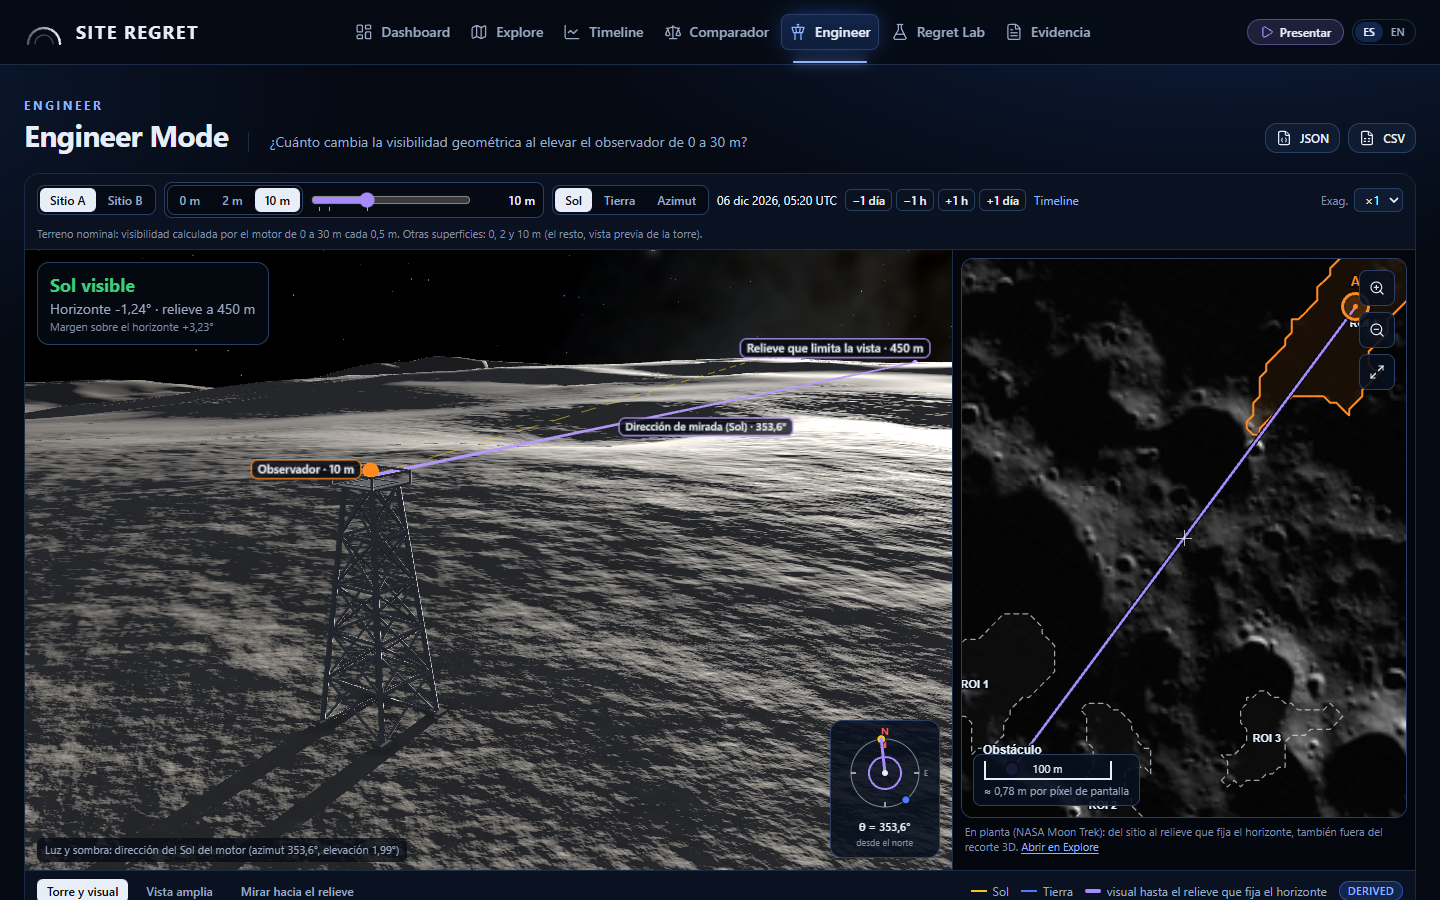
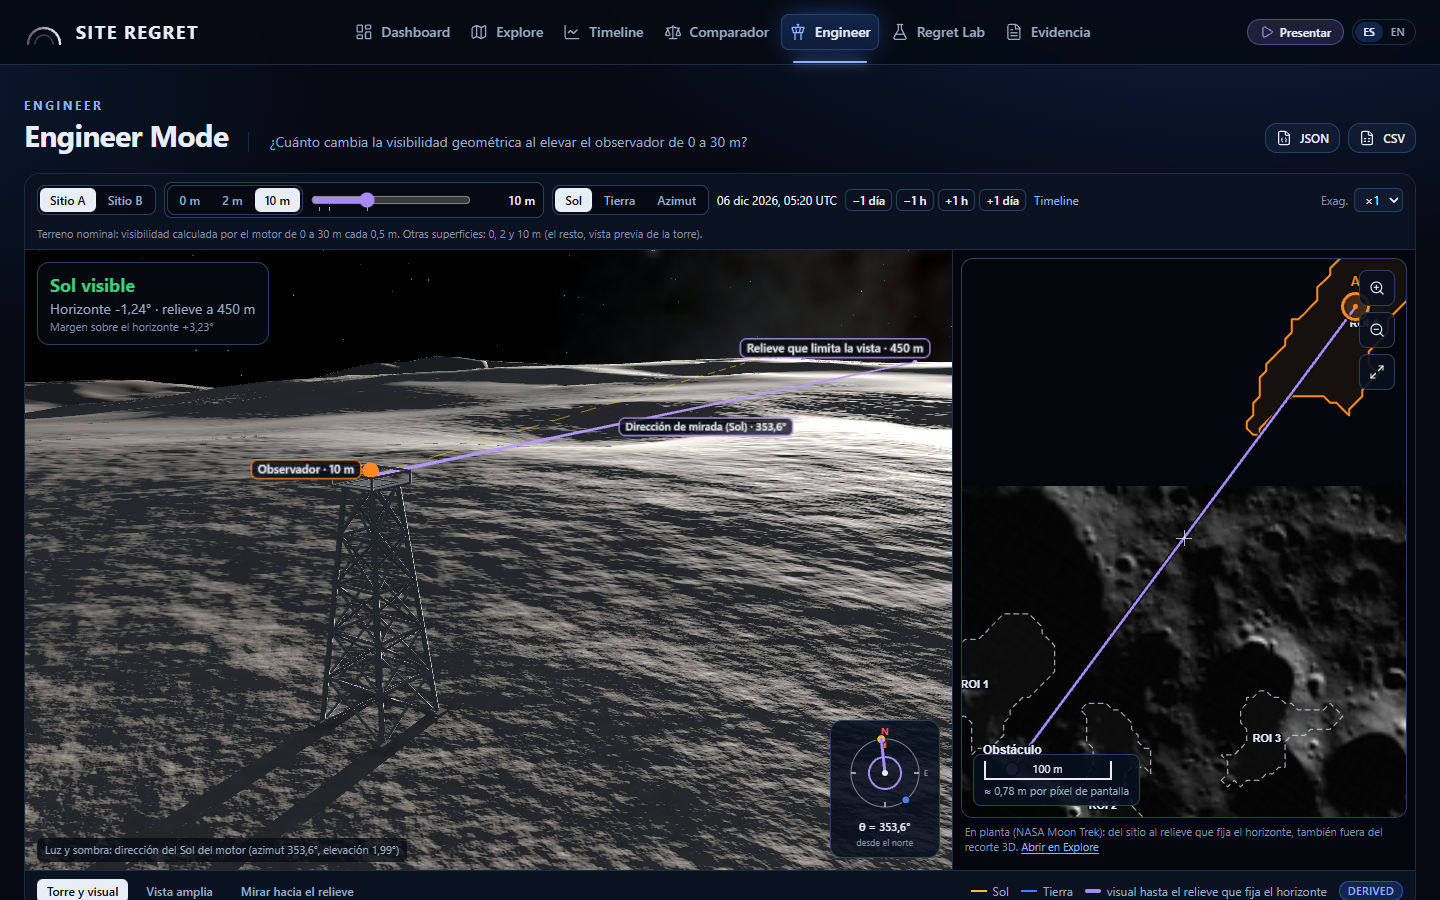
perf(engineer): keep the shadow light constant so the height slider stays fast
Dropping castShadow for the neutral-light state changed the number of
shadow-casting lights, which makes three.js recompile every material
(~0.9 s on first use). The Sun light now keeps castShadow and goes to zero
intensity when the engine reports the Sun hidden or data is loading.
Sightline tiles are requested after a 450 ms pause. Slider to 30 m with data:
1041 ms -> 318 ms (263 ms before the redesign).

diff --git a/web/src/components/terrain/useRegionalTerrain.ts b/web/src/components/terrain/useRegionalTerrain.ts
@@ -20,6 +20,8 @@ import { TERRAIN_BOUNDS } from "@/lib/geospatial/terrain";
 /** Radio (m) alrededor del sitio que se dibuja siempre con cada nivel. */
 const NEAR_L0_M = 12_000;
 const NEAR_L1_M = 50_000;
+/** Pausa (ms) antes de pedir los bloques de una visual nueva. */
+const RAY_SETTLE_MS = 450;
 /** De más fino a más grueso. */
 const FINENESS: RegionalLevelId[] = ["L0", "L1", "L2", "F"];
 const SKIRT_M: Record<string, number> = { L0: 60, L1: 220, L2: 700, F: 1500 };
@@ -45,12 +47,22 @@ const intersects = (a: Bounds, b: Bounds) => a[0] < b[2] && a[2] > b[0] && a[1] 
 export function useRegionalTerrain(
   frame: LocalFrame,
   site: { x: number; y: number; lonEastDeg: number; latDeg: number },
-  ray: { azimuthDeg: number; distanceM: number } | null,
+  liveRay: { azimuthDeg: number; distanceM: number } | null,
 ): { pieces: RegionalPiece[]; grids: RegionalGrid[]; pending: number; failed: number } {
   const [grids, setGrids] = useState<Map<string, RegionalGrid>>(() => new Map());
   const [pending, setPending] = useState(0);
   const [failed, setFailed] = useState(0);
   const requested = useRef(new Set<string>());
+
+  // La visual solo pide bloques cuando lleva un momento quieta: mientras se arrastra la altura o el
+  // azimut cambia a cada paso, y pedir y mallar bloques en cada uno retrasaba el dato de la altura final.
+  const rayAz = liveRay?.azimuthDeg ?? null;
+  const rayDist = liveRay?.distanceM ?? null;
+  const [ray, setRay] = useState<{ azimuthDeg: number; distanceM: number } | null>(null);
+  useEffect(() => {
+    const t = setTimeout(() => setRay(rayAz === null || rayDist === null ? null : { azimuthDeg: rayAz, distanceM: rayDist }), RAY_SETTLE_MS);
+    return () => clearTimeout(t);
+  }, [rayAz, rayDist]);
 
   const wanted = useMemo(() => {
     const list: RegionalBlockEntry[] = [

diff --git a/web/src/components/terrain/TerrainScene.tsx b/web/src/components/terrain/TerrainScene.tsx
@@ -449,8 +449,9 @@ export function TerrainScene({
     if (!r || !host) return;
     if (!lightEnu) {
       // Sol oculto, desconocido o sin datos: sin luz directa ni sombra solar; luz neutra para leer la escena.
+      // Intensidad 0 en lugar de quitar `castShadow`: cambiar el número de luces con sombra obliga a
+      // three.js a recompilar todos los materiales (≈ 1 s la primera vez). Una luz a 0 no ilumina ni sombrea.
       r.light.intensity = 0;
-      r.light.castShadow = false;
       r.neutral.hemi.intensity = 1.25;
       r.neutral.ambient.intensity = 0.28;
       r.neutral.top.intensity = 0.55;
@@ -464,7 +465,6 @@ export function TerrainScene({
       const elev = Math.asin(Math.max(-1, Math.min(1, l.y)));
       // La elevación es la real (rasante en el polo). Solo la intensidad compensa que el suelo reciba ∝ sin(elevación).
       r.light.intensity = 3.3 * Math.min(5, Math.max(1, 0.3 / Math.max(0.01, Math.sin(elev))));
-      r.light.castShadow = true;
       r.neutral.hemi.intensity = 0.42;
       r.neutral.ambient.intensity = 0.08;
       r.neutral.top.intensity = 0;

diff --git a/docs/continuidad/HANDOFF.md b/docs/continuidad/HANDOFF.md
@@ -10,7 +10,7 @@ Documento principal del relevo. Si contradice al código o a `git status`, manda
 | | |
 |---|---|
 | Rama | `feat/rediseno-experiencia-lunar` (local, **sin subir, sin PR, sin fusionar**), desde `be84975` = punta de `feat/operacion-final-integracion` (PR #20). Fusionar y publicar lo decide el equipo: `main` despliega en producción |
-| Commits | `6491f1e` Dashboard (globo) · `3fab07e` Engineer (sombra solar + relieve regional) · `1d627d7` Timeline · encima, el commit de capturas y documentos de este punto de control |
+| Commits | `6491f1e` Dashboard (globo) · `3fab07e` Engineer (sombra solar + relieve regional) · `1d627d7` Timeline · `28ab76d` capturas y documentos · encima, `perf(engineer)` (deslizador) con las medidas y capturas de Engineer rehechas |
 | Compilación servida | `web/out`, compilada por `npm run verify` sobre el código de esos commits. Servidor: `node scripts/serve-static.ts out 4190` (PID 30428, arrancado por Hugo a las 19:05; lee `out/` del disco en cada petición, así que sirve la compilación final). URL: http://127.0.0.1:4190/ · http://127.0.0.1:4190/timeline/?s=A&w=W2&h=0&v=nominal&t=3200 · http://127.0.0.1:4190/engineer/?s=A&w=W1&h=10&v=nominal&t=629. Si no responde: `cd web && npm run build && node scripts/serve-static.ts out 4190` |
 | Referencia «antes» | `web/docs/capturas/pc24/antes/` (de Hugo, sobre el código de `0871dcf`), reutilizada sin repetir. «Después»: `web/docs/capturas/pc24/despues/` (mismo equipo, mismo Edge, mismo script) |
 
@@ -61,13 +61,13 @@ Capturas: `web/docs/capturas/pc24/despues/engineer-obstaculo-{fuera,sol-oculto,c
 
 | Vista | Antes | Después | Nota |
 |---|---|---|---|
-| Dashboard · contenido útil (botón de misión) | 387 ms | 417 ms | |
+| Dashboard · contenido útil (botón de misión) | 387 ms | 417–485 ms (dos pasadas) | |
 | Dashboard · transferido / peticiones | 4 902 KB / 81 | 6 180 KB / 88 | + three.js, textura 2k y cielo; la capa `elevation.f32` (2,5 MB) ya se cargaba |
 | Dashboard · arrastre del globo | sin globo | mediana 6,1 ms, p95 6,2 ms | |
 | Timeline · útil / transferido | 111 ms / 6 303 KB | 135 ms / 6 374 KB | |
 | Engineer · útil / transferido / peticiones | 116 ms / 8 561 KB / 100 | 148 ms / 9 776 KB / 131 | + bloques regionales (≈ 1,2 MB) |
 | Engineer · órbita | mediana 6,1 ms, p95 6,2 ms | mediana 6,1 ms, p95 6,2 ms | |
-| Engineer · deslizador hasta 30 m con dato | 263 ms | **1 041 ms** | Más lento: al cambiar la altura cambia el punto del horizonte y se piden y mallan bloques regionales nuevos |
+| Engineer · deslizador hasta 30 m con dato | 263 ms | **318 ms** (316–334 en 4 medidas) | La primera versión de PC-24 daba 1 041 ms. Causa aislada midiendo con y sin relieve regional: al pasar a luz neutra durante la carga se quitaba `castShadow`, y three.js recompila todos los materiales cuando cambia el número de luces con sombra (≈ 0,9 s la primera vez). Ahora la luz solar conserva `castShadow` y en modo neutro va a intensidad 0. Además, los bloques de la visual se piden tras 450 ms de pausa |
 
 Cómo mide el script y qué NO es comparable: `usefulMs` y `settledMs` son relojes de Node alrededor de Playwright (incluyen su latencia; `settledMs` lleva 1,8 s fijos de espera). El intervalo entre fotogramas es `requestAnimationFrame` de la página: **6,1 ms es el tope de la pantalla (~165 Hz)**, así que solo demuestra que no se pierden fotogramas, no cuánto margen queda. `transferKB` es contra un servidor local sin compresión. «Arrastre del globo» no tiene valor «antes».
 
@@ -75,7 +75,7 @@ Cómo mide el script y qué NO es comparable: `usefulMs` y `settledMs` son reloj
 
 - **Revisión humana** de las tres vistas (proyector incluido) antes de cualquier fusión. No se ha subido la rama.
 - Relieve regional: fuera de los bloques L0 (puntos de horizonte del motor + 25 km) solo hay L1/L2/F; ahí las crestas entre vértices no están y la visual termina en «Límite del visor 3D» con el punto real en el mapa. No existe en el paquete un caso de **Sol oculto por cresta regional** a 2 ni a 10 m (no comprobado a 0 m ni en alturas intermedias). Entre el recorte de 4 km y el borde de la tesela Site01 (16 km) el motor usó PGDA78 de 5 m, que la web no publica: ahí el 80 m es contexto, con un escalón de hasta ~6 m (RMS 0,7 m) en la junta. Ampliar: `node scripts/geospatial/build-regional.ts --ring-km=40 --sector=A:120-140:150` y `publish-regional.ts`.
-- El deslizador de altura tarda más en mostrar el dato (ver tabla). Mejora posible: construir las mallas regionales fuera del hilo principal o no pedir bloques de la visual durante el arrastre.
+- Tras el ajuste del deslizador (commit posterior a `28ab76d`) se recompiló y se repasaron sobre la compilación final `engineer-pc24`, `engineer-heights`, `timeline-engineer-visual`, `geo`, `jurado-pc21` y `a11y` (2 procesos): 43 PASS, 1 FAIL, 1 omitida. El fallo, `engineer-heights.spec.ts` «volver a 10 m…», fue de tiempo de carga (la altura 19,5 m no llegó en 20 s); esa spec en serie ×2: 12/12 PASS. **El `npm run verify` completo no se ha repetido después de este ajuste.**
 - Con el Sol a 1–2° la torre iluminada queda muy clara y el suelo oscuro (es la geometría real); la luz neutra del caso «Sol oculto» es plana a propósito.
 - Globo: la textura global es de 2k (≈ 5 km/px); el detalle fino solo existe en el casquete sur. La rotación es de tipo «trackball» (puede acumular giro); «Volver al globo» lo restablece.
 - Sin comprobar: lector de pantalla real, zoom al 200 %, Safari/Firefox, móvil físico, inglés de forma visual en las vistas nuevas.

diff --git a/docs/continuidad/HISTORIAL.md b/docs/continuidad/HISTORIAL.md
@@ -28,3 +28,4 @@
 | PC-23 | 2026-11-14 18:10 | Hugo · Claude Code (operación final de integración) | Reconciliación Git/GitHub/Vercel (producción = `main` = `aae19b2`; despliegue automático desde `main`, sin protección ni CI). Auditoría independiente del paquete de alturas: sin fallos (162/162 comparaciones exactas con el contrato). `npm run verify` sobre `aae19b2`: 1 E2E fallaba de verdad (prueba del lienzo 3D, no la escena). Candidato: demo guiada en 3 pasos con regret, portada de 10 segundos con A/B, ficha de Evidencia del paquete de alturas, textos de Engineer, +2 Vitest, +1 E2E. `npm run verify` sobre el commit candidato `0871dcf`: Vitest 126/126, Playwright 93 PASS, 0 FAIL, 1 omitida (opcional en vivo). Documentos anticuados corregidos; tabla de propietarios. NO-GO de entrega: faltan demo pública, ficha en inglés, verificación de la pestaña Resources y declaración de IA del resto del equipo | rama `feat/operacion-final-integracion` (sin fusionar ni publicar) |
 | PC-24 (inicio) | 2026-11-14 19:15 | Asier · Claude Code (relevo de Hugo) | Rama `feat/rediseno-experiencia-lunar` desde `be84975`. Capturas y medidas de partida de Hugo (`web/docs/capturas/pc24/antes/`, `web/scripts/qa/capture.mjs`) comprobadas y reutilizadas. Empieza el globo lunar del Dashboard; después sombra solar y terreno regional de Engineer y Timeline compacto | HANDOFF §0-bis |
 | PC-24 | 2026-11-14 ~20:15 | Asier · Claude Code (relevo de Hugo) | Rediseño de la experiencia lunar en `feat/rediseno-experiencia-lunar` (local, sin subir): Dashboard con globo lunar 360° (LROC SVS 4720, A · B en el polo, detalle polar LOLA, caída sin WebGL); Engineer con luz y sombra del Sol del motor (neutra si está oculto) y relieve regional PGDA90 por bloques (251 bloques, 8,3 MB; cresta a 8,74 km coincide en mapa y 3D, Δ −0,06 m); Timeline recompuesto (barra → reproductor → gráfico + columna de lectura). `npm run verify`: Vitest 153/153, Playwright 105 PASS, 0 FAIL, 1 omitida. Capturas y medidas en `web/docs/capturas/pc24/despues`. Pendiente: revisión humana; el deslizador de altura tarda más (263 → 1 041 ms) | `6491f1e`, `3fab07e`, `1d627d7` + commit de capturas y documentos |
+| PC-24 (ajuste) | 2026-11-14 | Asier · Claude Code | Deslizador de altura de Engineer: 1 041 → 318 ms (antes del rediseño, 263 ms). La causa era la recompilación de materiales al quitar `castShadow` en modo neutro; ahora la luz va a intensidad 0. Bloques de la visual con pausa de 450 ms. Specs de Engineer sobre la compilación nueva: 43 PASS, 1 fallo de tiempo que pasa en serie; `verify` completo no repetido | commit `perf(engineer)` |
